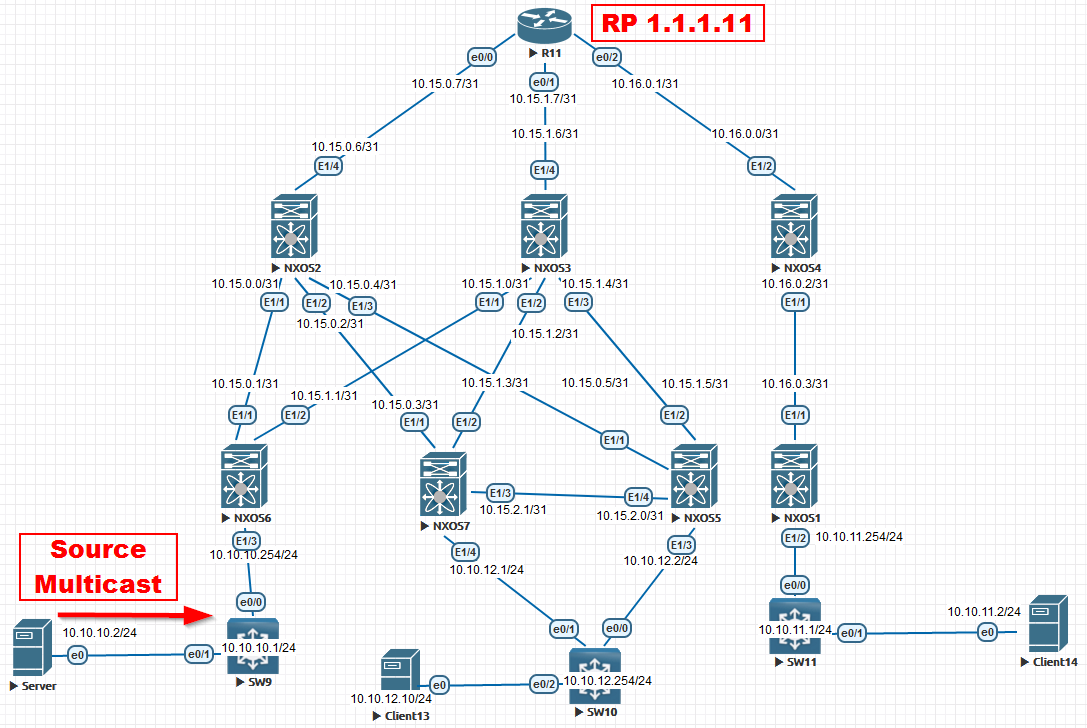
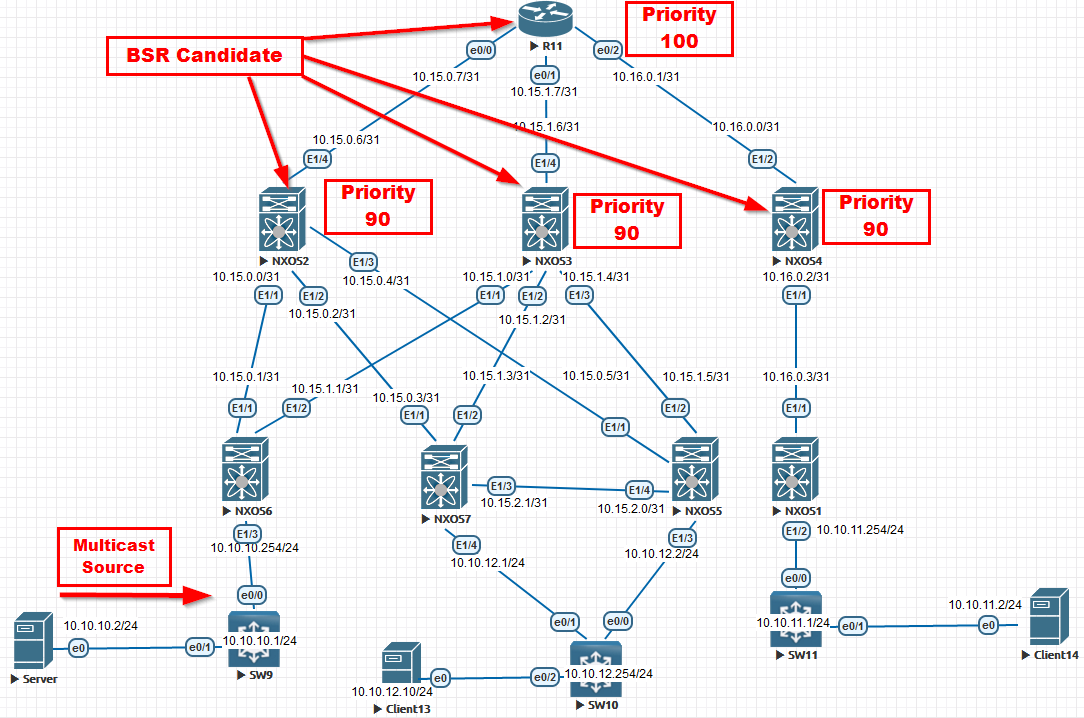
update bsr

Changed region(s): [[0.0, 0.0, 0.7002, 1.0], [0.6393, 0.1532, 1.0, 0.9192]]

diff --git a/5. Multicast. PIM/Home_Work.md b/5. Multicast. PIM/Home_Work.md
@@ -33,7 +33,8 @@ hostname NX1
 feature ospf
 feature pim
 !
-ip pim rp-address 1.1.1.11
+ip pim log-neighbor-changes
+ip pim bsr listen
 !
 router ospf 1
   router-id 1.1.1.1
@@ -62,6 +63,11 @@ interface loopback0
   ip address 1.1.1.1/24
   ip router ospf 1 area 0.0.0.1
 !
+line console
+  exec-timeout 0
+line vty
+  exec-timeout 0
+!
 end
 copy run star 
 </code></pre>
@@ -76,7 +82,10 @@ hostname NX2
 feature ospf
 feature pim
 !
-ip pim rp-address 1.1.1.11
+ip pim bsr bsr-candidate loopback0 priority 90
+ip pim bsr rp-candidate loopback0 group-list 224.0.0.0/4
+ip pim log-neighbor-changes
+ip pim bsr forward listen
 !
 router ospf 1
   router-id 1.1.1.2
@@ -128,6 +137,12 @@ interface Ethernet1/4
 interface loopback0
   ip address 1.1.1.2/24
   ip router ospf 1 area 0.0.0.0
+  ip pim sparse-mode
+!
+line console
+  exec-timeout 0
+line vty
+  exec-timeout 0
 !
 end
 copy run star
@@ -137,13 +152,16 @@ copy run star
 <details>
   <summary>NXOS3</summary>
 <pre><code>
- conf t
+conf t
 !
 hostname NX3
 feature ospf
 feature pim
 !
-ip pim rp-address 1.1.1.11
+ip pim bsr bsr-candidate loopback0 priority 90
+ip pim bsr rp-candidate loopback0 group-list 224.0.0.0/4
+ip pim log-neighbor-changes
+ip pim bsr forward listen
 !
 router ospf 1
   router-id 1.1.1.3
@@ -195,6 +213,12 @@ interface Ethernet1/4
 interface loopback0
   ip address 1.1.1.3/24
   ip router ospf 1 area 0.0.0.0
+  ip pim sparse-mode
+!
+line console
+  exec-timeout 0
+line vty
+  exec-timeout 0
 !
 end
 copy run star
@@ -210,7 +234,10 @@ hostname NX4
 feature ospf
 feature pim
 !
-ip pim rp-address 1.1.1.11
+ip pim bsr bsr-candidate loopback0 priority 90
+ip pim bsr rp-candidate loopback0 group-list 224.0.0.0/4
+ip pim log-neighbor-changes
+ip pim bsr forward listen
 !
 router ospf 1
   router-id 1.1.1.4
@@ -240,6 +267,12 @@ interface Ethernet1/2
 interface loopback0
   ip address 1.1.1.4/24
   ip router ospf 1 area 0.0.0.1
+  ip pim sparse-mode
+!
+line console
+  exec-timeout 0
+line vty
+  exec-timeout 0
 !
 end
 copy run star
@@ -254,7 +287,8 @@ conf t
 feature ospf
 feature pim
 !
-ip pim rp-address 1.1.1.11
+ip pim log-neighbor-changes
+ip pim bsr listen
 !
 hostname NX5
 !
@@ -307,6 +341,11 @@ interface loopback0
   ip address 1.1.1.5/24
   ip router ospf 1 area 0.0.0.0
 !
+line console
+  exec-timeout 0
+line vty
+  exec-timeout 0
+!
 end
 copy run star
  </code></pre>
@@ -320,7 +359,8 @@ conf t
 feature ospf
 feature pim
 !
-ip pim rp-address 1.1.1.11
+ip pim log-neighbor-changes
+ip pim bsr listen
 !
 hostname NX6
 !
@@ -361,6 +401,11 @@ interface loopback0
   ip address 1.1.1.6/24
   ip router ospf 1 area 0.0.0.0
 !
+line console
+  exec-timeout 0
+line vty
+  exec-timeout 0
+!
 end
 copy run star
  </code></pre>
@@ -376,7 +421,8 @@ hostname NX7
 feature ospf
 feature pim
 !
-ip pim rp-address 1.1.1.11
+ip pim log-neighbor-changes
+ip pim bsr listen
 !
 router ospf 1
   router-id 1.1.1.7
@@ -426,6 +472,11 @@ interface loopback0
   ip address 1.1.1.7/24
   ip router ospf 1 area 0.0.0.0
 !
+line console
+  exec-timeout 0
+line vty
+  exec-timeout 0
+!
 end
 copy run star
 </code></pre>
@@ -452,6 +503,8 @@ interface Ethernet0/0
  ip ospf authentication-key OTUS
  ip ospf network point-to-point
  ip ospf 1 area 0
+ duplex full
+ no shutdown
 !
 interface Ethernet0/1
  ip address 10.15.1.7 255.255.255.254
@@ -459,6 +512,8 @@ interface Ethernet0/1
  ip ospf authentication-key OTUS
  ip ospf network point-to-point
  ip ospf 1 area 0
+ duplex full
+ no shutdown
 !
 interface Ethernet0/2
  ip address 10.16.0.1 255.255.255.254
@@ -466,6 +521,8 @@ interface Ethernet0/2
  ip ospf authentication-key OTUS
  ip ospf network point-to-point
  ip ospf 1 area 1
+ duplex full
+ no shutdown
 !
 interface Loopback0
  ip address 1.1.1.11 255.255.255.0
@@ -473,12 +530,14 @@ interface Loopback0
  ip ospf 1 area 0
 !
 ip multicast-routing 
-ip pim rp-address 1.1.1.11
+ip pim bsr-candidate Loopback0 32 100
+ip pim rp-candidate Loopback0 priority 100
 ! 
 end
 wr
 </code></pre>
 </details>
+
 Настройка Source Multicast
 
 <details>
